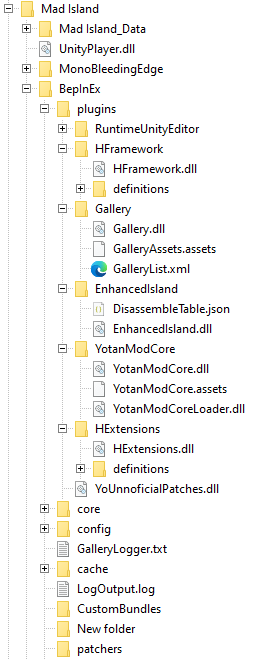
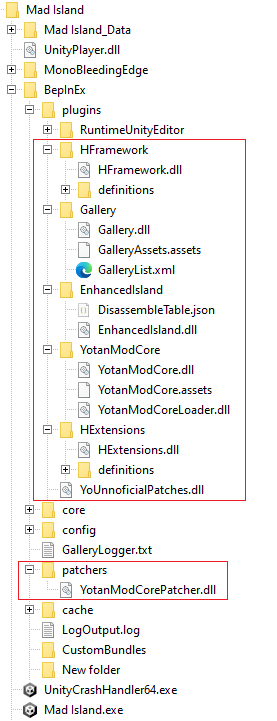
docs updates for new version

diff --git a/README.md b/README.md
@@ -50,7 +50,13 @@ See installation instructions at: https://docs.bepinex.dev/articles/user_guide/i
 
 You need to install x64 version of BepInEx v5 (latest stable v5 available).
 
-After you have it installed, download the mods that you need (and requirements, if applicable) from [Releases](https://github.com/yotan-dev/mad-island-mods/releases) and extract the files into `Mad Island Folder/BepInEx/plugins`.
+After you have it installed, download the mods that you need (and requirements, if applicable) from [Releases](https://github.com/yotan-dev/mad-island-mods/releases).
+
+For YotanMod Core, extract the zip file on you Mad Island folder (use "Extract here" option and let it overwrite files, as it will put files in a few folders).
+
+For other mods, extract the files into `Mad Island Folder/BepInEx/plugins` (also use "Extract here" option).
+
+You can see at the end of this section how your folders should look like if you install all mods in this repository.
 
 > [!WARNING]
 > Extract the zip files using "Extract here".

diff --git a/ChangeLog.md b/ChangeLog.md
@@ -11,7 +11,12 @@ Each mod has its own version which follows SemVer.
 
 ### YotanModCore v2.2.0
 
+> [!WARNING]
+> This update is changing how YotanModCore is installed, the ZIP file must be extracted in the root folder of Mad Island, as it now contains BepInEx/patchers and BepInEx/plugins.
+
 - **(For developers)** Added experimental support for DataStore
+
+**For end users:** This update is not really needed for now, unless you are using mods that needs this new functionality.
 
 
 ## 2025.10.26
